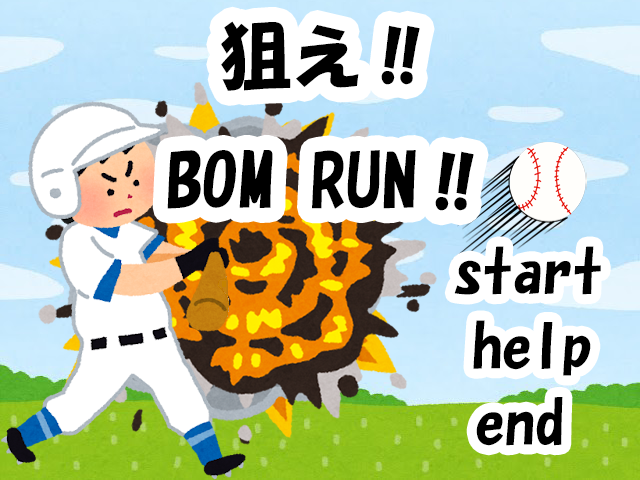
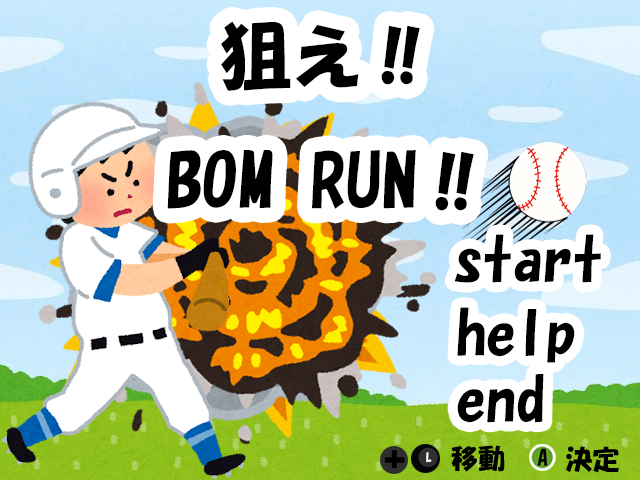
タイトル画像やヘルプ画像やヘルプBGMのストップ処理の追加

Changed region(s): [[0.5938, 0.4688, 0.9688, 1.0]]

diff --git a/GameJam2025_Team_Iwashimon/Scene/Help/HelpScene.h b/GameJam2025_Team_Iwashimon/Scene/Help/HelpScene.h
@@ -8,6 +8,7 @@ private:
 	int helpimage;
 	int back_sound;
 	int button_click;
+	int help_moji[2];
 
 public:
 	HelpScene();
